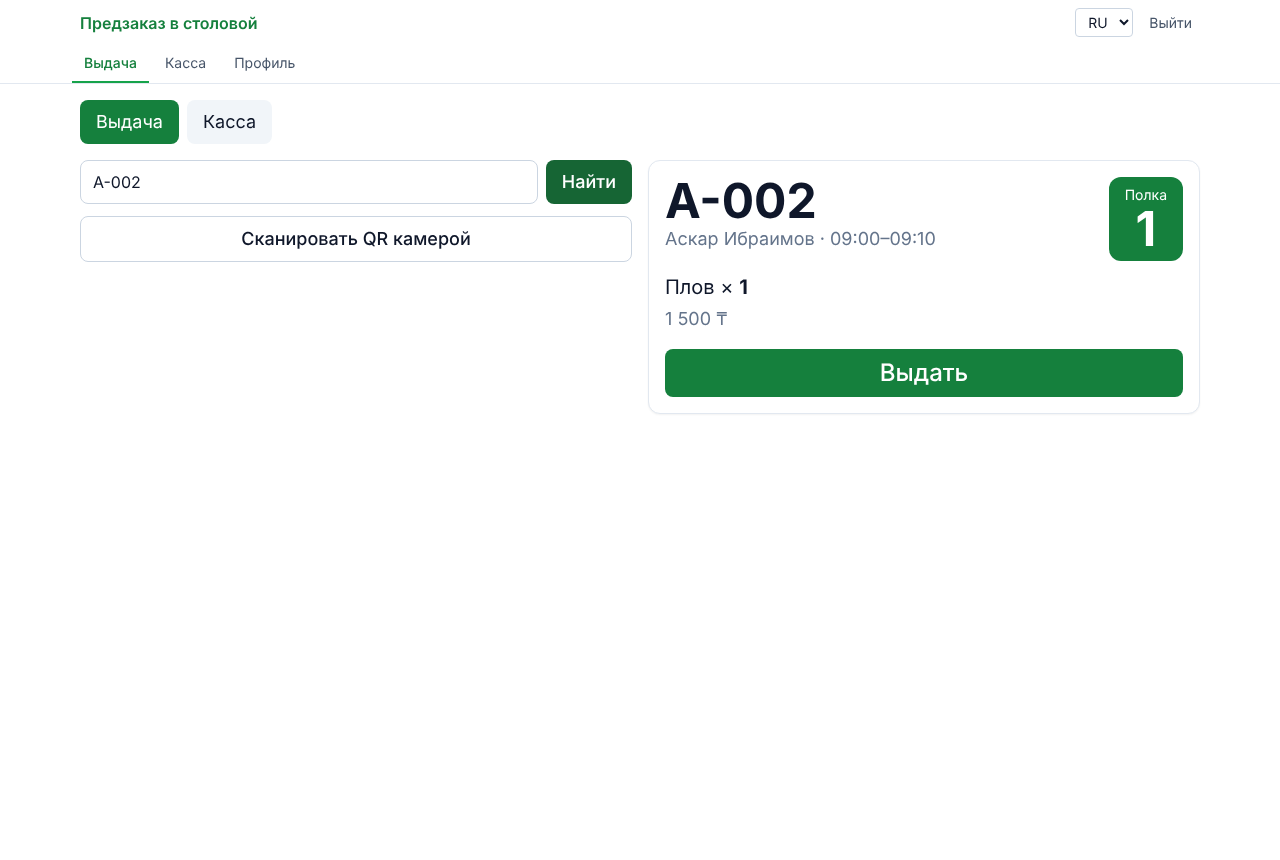
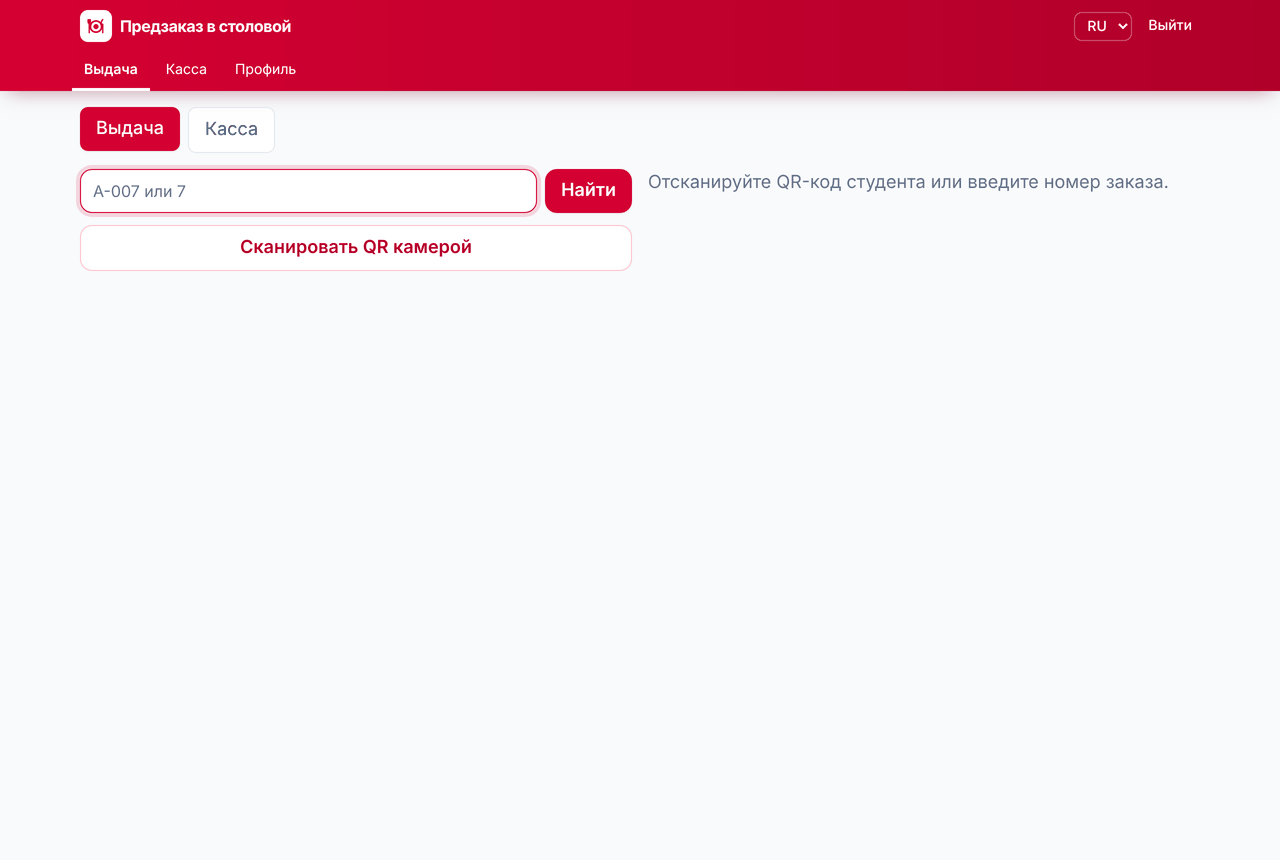
docs: fresh screenshots in the Narxoz red and white design
Claude-Session: https://claude.ai/code/session_018QshFPxECa1MsHQ5aXR2vu

Changed region(s): [[0.0, 0.0, 1.0, 0.3023], [0.5, 0.3326, 0.9375, 0.4837]]

diff --git a/README.md b/README.md
@@ -15,9 +15,10 @@
 ![Доска кухни](docs/screenshots/kitchen.png)
 ![Панель заведующей](docs/screenshots/manager-dashboard.png)
 
-Ещё скриншоты: [выдача](docs/screenshots/pickup.png),
+Ещё скриншоты: [вход](docs/screenshots/login.png), [выдача](docs/screenshots/pickup.png),
+[каталог блюд](docs/screenshots/manager-dishes.png),
 [прогноз против факта](docs/screenshots/manager-forecast.png),
-[скидки](docs/screenshots/manager-promotions.png).
+[скидки](docs/screenshots/manager-promotions.png), [админка](docs/screenshots/admin.png).
 
 ## Содержание
 
